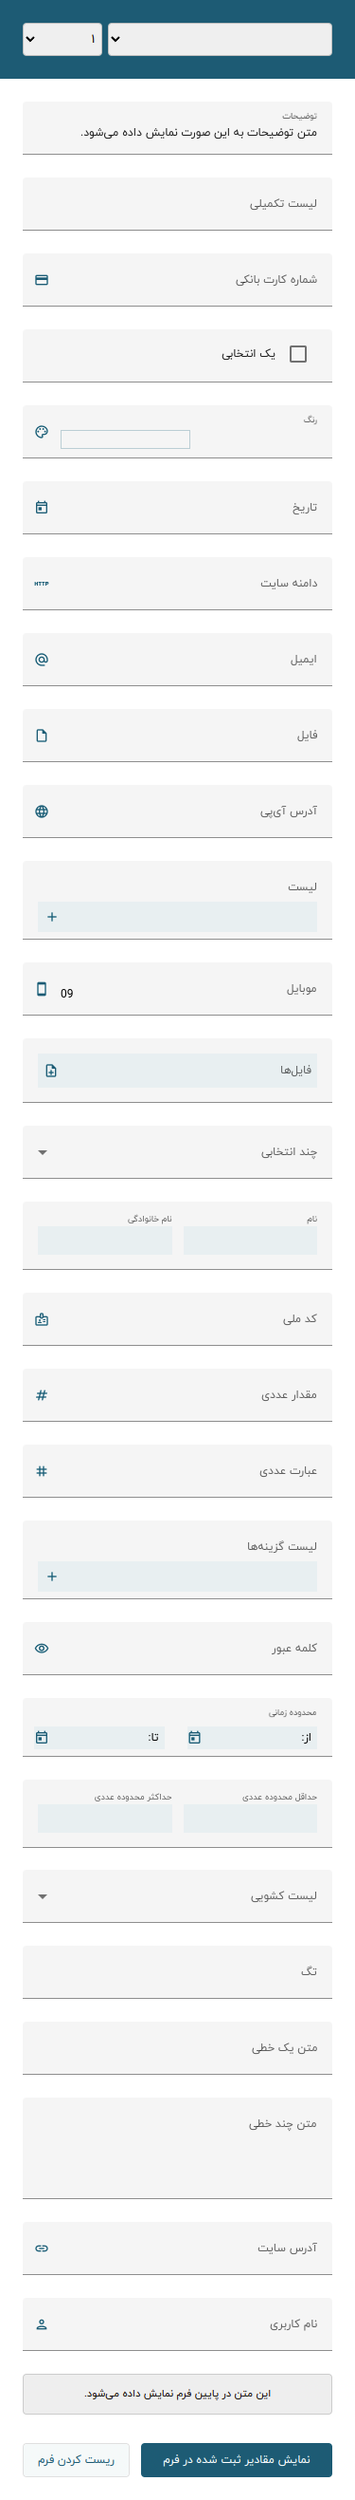
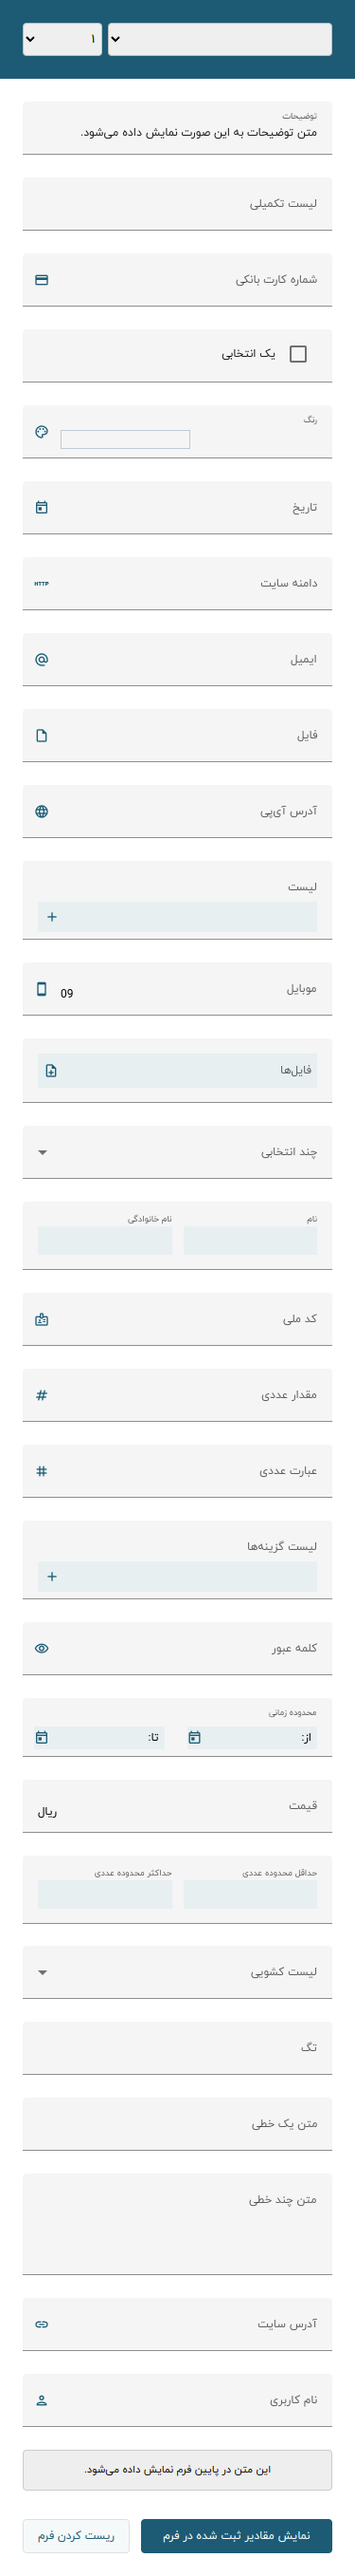
Add PRICE input

diff --git a/ngx-form/src/lib/inputs/price.ts b/ngx-form/src/lib/inputs/price.ts
@@ -1,0 +1,66 @@
+import { FormControl, ValidatorFn, Validators } from '@angular/forms';
+
+import { Validator } from '@webilix/validator-library';
+
+import { INgxFormInput } from '../interfaces/ngx-input';
+import { NgxFormInputMethods } from '../ngx-form.methods';
+
+export interface INgxFormInputPrice extends Omit<INgxFormInput, 'english' | 'value'> {
+    type: 'PRICE';
+
+    /**
+     * Input caption copyright text
+     * @type { string }
+     * @override title
+     */
+    title: string;
+
+    /**
+     * Input value
+     * @type { number }
+     * @override value
+     * @optional
+     */
+    value?: number;
+
+    /**
+     * Minimum acceptable value
+     * @type { number }
+     * @optional
+     */
+    minimum?: number;
+
+    /**
+     * Maximum acceptable value
+     * @type { number }
+     * @optional
+     */
+    maximum?: number;
+
+    /**
+     * Input currency
+     * @type { string }
+     * @optional 'ریال'
+     */
+    currency?: string;
+}
+
+export class NgxFormInputPriceMethods extends NgxFormInputMethods<INgxFormInputPrice, number | null> {
+    control(input: INgxFormInputPrice, validators: ValidatorFn[]): FormControl<number | null> {
+        input.currency = input.currency || 'ریال';
+        if (input.minimum) validators.push(Validators.min(input.minimum));
+        if (input.maximum) validators.push(Validators.max(input.maximum));
+
+        const value: number | null =
+            input.value === undefined
+                ? null
+                : Validator.VALUE.isNumber(input.value) && input.value >= 0 && input.value % 1 === 0
+                ? input.value
+                : null;
+        return new FormControl<number | null>(value, validators);
+    }
+
+    value(value: any): number | null {
+        return Validator.VALUE.isNumber(value) ? value : null;
+    }
+}

diff --git a/testing/src/app/app.component.ts b/testing/src/app/app.component.ts
@@ -23,6 +23,7 @@ import { NumericComponent } from './numeric/numeric.component';
 import { OptionListComponent } from './option-list/option-list.component';
 import { PasswordComponent } from './password/password.component';
 import { PeriodComponent } from './period/period.component';
+import { PriceComponent } from './price/price.component';
 import { RangeComponent } from './range/range.component';
 import { SelectComponent } from './select/select.component';
 import { TagComponent } from './tag/tag.component';
@@ -80,6 +81,7 @@ export class AppComponent implements OnInit {
         { name: 'option-list', type: 'OPTION-LIST', title: 'لیست گزینهها' },
         { name: 'password', type: 'PASSWORD', optional: true },
         { name: 'period', type: 'PERIOD', optional: true },
+        { name: 'price', type: 'PRICE', title: 'قیمت', optional: true },
         { name: 'range', type: 'RANGE', title: 'محدوده عددی', optional: true },
         {
             name: 'select',
@@ -128,6 +130,7 @@ export class AppComponent implements OnInit {
         { type: 'OPTION-LIST', title: 'لیست گزینهها', component: OptionListComponent },
         { type: 'PASSWORD', title: 'کلمه عبور', component: PasswordComponent },
         { type: 'PERIOD', title: 'محدوده زمانی', component: PeriodComponent },
+        { type: 'PRICE', title: 'قیمت', component: PriceComponent },
         { type: 'RANGE', title: 'محدوده عددی', component: RangeComponent },
         { type: 'SELECT', title: 'لیست کشویی', component: SelectComponent },
         { type: 'TAG', title: 'تگ', component: TagComponent },

diff --git a/testing/src/app/price/price.component.ts b/testing/src/app/price/price.component.ts
@@ -1,0 +1,37 @@
+import { Component } from '@angular/core';
+
+import { INgxForm, INgxFormValues } from '@ngx-form';
+
+@Component({
+    templateUrl: './price.component.html',
+    styleUrls: ['./price.component.scss'],
+})
+export class PriceComponent {
+    public showValues = console.log;
+
+    public ngxForm: INgxForm = {
+        submit: 'نمایش مقادیر ثبت شده در فرم',
+        inputs: [
+            { name: 'price-1', type: 'PRICE', title: 'قیمت', value: 5000000 },
+            { name: 'price-2', type: 'PRICE', title: 'اختیاری', optional: true },
+            { name: 'price-3', type: 'PRICE', title: 'تغییر واحد پولی', currency: 'تومان', optional: true },
+            {
+                name: 'price-4',
+                type: 'PRICE',
+                title: 'غیرفعال شدن',
+                optional: true,
+                disableOn: (values: INgxFormValues) => values['price-2'] === 0,
+                hint: 'در صورتی که مقدار اختیاری 0 باشد این گزینه غیرفعال میشود.',
+            },
+            {
+                name: 'price-5',
+                type: 'PRICE',
+                title: 'عدم نمایش',
+                optional: true,
+                hideOn: (values: INgxFormValues) => values['price-2'] === 0,
+                hint: 'در صورتی که مقدار اختیاری 0 باشد این گزینه نمایش داده نمیشود.',
+            },
+            { name: 'price-6', type: 'PRICE', title: 'محدودیت مقدار', optional: true, minimum: 10, maximum: 20 },
+        ],
+    };
+}

diff --git a/ngx-form/src/lib/ngx-input/number/ngx-input-number.component.html b/ngx-form/src/lib/ngx-input/number/ngx-input-number.component.html
@@ -2,8 +2,11 @@
     <mat-label>{{ input.title }}</mat-label>
     <mat-error *ngIf="control.invalid">{{ control.errors | ngxError: input.type }}</mat-error>
     <mat-hint *ngIf="input.hint">{{ input.hint }}</mat-hint>
-    <span matIconSuffix [ngClass]="{ 'suffix-disabled': control.disabled }">
-        <mat-icon [fontIcon]="'numbers'"></mat-icon>
+    <span matTextSuffix [ngClass]="{ 'suffix-text': true, 'suffix-disabled': control.disabled }" *ngIf="suffix">
+        {{ suffix }}
+    </span>
+    <span matIconSuffix [ngClass]="{ 'suffix-disabled': control.disabled }" *ngIf="icon">
+        <mat-icon [fontIcon]="icon"></mat-icon>
     </span>
 
     <input
@@ -13,14 +16,14 @@
         [formControl]="control"
         [ngxPersianNumber]="true"
         [isNnumber]="true"
-        [isNegative]="!!input.negative"
-        [isDecimal]="!!input.decimal"
+        [isNegative]="!!negative"
+        [isDecimal]="!!decimal"
         inputmode="numeric"
         class="input-en"
-        [mask]="input.decimal ? 'separator.3' : 'separator.0'"
+        [mask]="decimal ? 'separator.3' : 'separator.0'"
         thousandSeparator=","
         [specialCharacters]="[',', '.', '-']"
-        [allowNegativeNumbers]="!!input.negative"
+        [allowNegativeNumbers]="!!negative"
         [dropSpecialCharacters]="false"
         maxlength="15"
     />

diff --git a/ngx-form/src/lib/interfaces/ngx-info.ts b/ngx-form/src/lib/interfaces/ngx-info.ts
@@ -23,6 +23,7 @@ import {
     NgxFormInputOptionListMethods,
     NgxFormInputPasswordMethods,
     NgxFormInputPeriodMethods,
+    NgxFormInputPriceMethods,
     NgxFormInputRangeMethods,
     NgxFormInputSelectMethods,
     NgxFormInputTagMethods,
@@ -61,6 +62,7 @@ export const NgxFieldInputInfo: { [key in NgxFormInputTypes['type']]: INgxFieldI
     'OPTION-LIST': { title: 'لیست گزینهها', methods: new NgxFormInputOptionListMethods() },
     PASSWORD: { title: 'کلمه عبور', methods: new NgxFormInputPasswordMethods() },
     PERIOD: { title: 'محدوده زمانی', methods: new NgxFormInputPeriodMethods() },
+    PRICE: { title: 'قیمت', methods: new NgxFormInputPriceMethods() },
     RANGE: { title: 'محدوده عددی', methods: new NgxFormInputRangeMethods() },
     SELECT: { title: 'لیست کشویی', methods: new NgxFormInputSelectMethods() },
     TAG: { title: 'تگ', methods: new NgxFormInputTagMethods() },

diff --git a/ngx-form/src/lib/ngx-input/number/ngx-input-number.component.ts b/ngx-form/src/lib/ngx-input/number/ngx-input-number.component.ts
@@ -2,7 +2,7 @@ import { Component, Input } from '@angular/core';
 import { FormControl } from '@angular/forms';
 import { MatFormFieldAppearance } from '@angular/material/form-field';
 
-import { INgxFormInputNumber } from '../../inputs';
+import { INgxFormInputNumber, INgxFormInputPrice } from '../../inputs';
 
 @Component({
     selector: 'ngx-input-number',
@@ -11,6 +11,11 @@ import { INgxFormInputNumber } from '../../inputs';
 })
 export class NgxInputNumberComponent {
     @Input() control?: FormControl;
-    @Input() input?: INgxFormInputNumber;
+    @Input() input?: INgxFormInputNumber | INgxFormInputPrice;
     @Input() appearance: MatFormFieldAppearance = 'fill';
+
+    @Input() icon?: string;
+    @Input() suffix?: string;
+    @Input() negative?: boolean;
+    @Input() decimal?: boolean;
 }

diff --git a/testing/src/app/app.module.ts b/testing/src/app/app.module.ts
@@ -27,6 +27,7 @@ import { NumericComponent } from './numeric/numeric.component';
 import { OptionListComponent } from './option-list/option-list.component';
 import { PasswordComponent } from './password/password.component';
 import { PeriodComponent } from './period/period.component';
+import { PriceComponent } from './price/price.component';
 import { RangeComponent } from './range/range.component';
 import { SelectComponent } from './select/select.component';
 import { TagComponent } from './tag/tag.component';
@@ -59,6 +60,7 @@ import { TextareaComponent } from './textarea/textarea.component';
         OptionListComponent,
         PasswordComponent,
         PeriodComponent,
+        PriceComponent,
         RangeComponent,
         SelectComponent,
         TextComponent,

diff --git a/ngx-form/src/lib/ngx-input/ngx-input.component.html b/ngx-form/src/lib/ngx-input/ngx-input.component.html
@@ -159,6 +159,9 @@
         [control]="control"
         [input]="input"
         [appearance]="appearance"
+        [icon]="'numbers'"
+        [negative]="input.negative"
+        [decimal]="input.decimal"
     ></ngx-input-number>
 
     <!-- NUMERIC -->
@@ -196,6 +199,17 @@
         [input]="input"
         [appearance]="appearance"
     ></ngx-input-period>
+
+    <!-- PRICE -->
+    <ngx-input-number
+        *ngIf="input.type === 'PRICE'"
+        [control]="control"
+        [input]="input"
+        [appearance]="appearance"
+        [suffix]="input.currency"
+        [negative]="false"
+        [decimal]="false"
+    ></ngx-input-number>
 
     <!-- RANGE -->
     <ngx-input-range

diff --git a/ngx-form/src/lib/ngx-form.types.ts b/ngx-form/src/lib/ngx-form.types.ts
@@ -20,6 +20,7 @@ import {
     INgxFormInputOptionList,
     INgxFormInputPassword,
     INgxFormInputPeriod,
+    INgxFormInputPrice,
     INgxFormInputRange,
     INgxFormInputSelect,
     INgxFormInputTag,
@@ -53,6 +54,7 @@ export type NgxFormInputTypes =
     | INgxFormInputOptionList
     | INgxFormInputPassword
     | INgxFormInputPeriod
+    | INgxFormInputPrice
     | INgxFormInputRange
     | INgxFormInputSelect
     | INgxFormInputTag

diff --git a/ngx-form/src/lib/inputs/index.ts b/ngx-form/src/lib/inputs/index.ts
@@ -20,6 +20,7 @@ export * from './numeric';
 export * from './option-list';
 export * from './password';
 export * from './period';
+export * from './price';
 export * from './range';
 export * from './select';
 export * from './tag';

diff --git a/ngx-form/src/lib/ngx-form.component.scss b/ngx-form/src/lib/ngx-form.component.scss
@@ -80,6 +80,7 @@ form {
     .mat-mdc-form-field-text-suffix {
         span.suffix-text {
             display: inline-block;
+            white-space: nowrap;
             margin: 0 1rem 0 0 !important;
         }
 

diff --git a/testing/src/app/price/price.component.html b/testing/src/app/price/price.component.html
@@ -1,0 +1,1 @@
+<ngx-form [ngxForm]="ngxForm" (ngxSubmit)="showValues($event)"></ngx-form>
